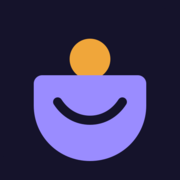
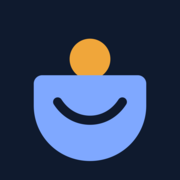
Eigenes Erscheinungsbild geschärft: Blau als Akzentfarbe, neues App-Symbol, Vertragsseite mit eigenem Kopf und Gruppenzeilen

Changed region(s): [[0.1667, 0.4167, 0.8333, 0.9167]]

diff --git a/frontend/src/pages/Vertraege.svelte b/frontend/src/pages/Vertraege.svelte
@@ -166,9 +166,12 @@
 
 {#snippet sektionen(liste: any[], typ: string)}
   {#each liste as s (s.turnus)}
-    <div class="flex items-baseline justify-between px-1 pb-2.5 pt-6">
-      <h2 class="text-[20px] font-bold tracking-tight">{TURNUS[s.turnus]} <span class="font-semibold text-muted">({s.anzahl})</span></h2>
-      <Amount wert={s.summe} farbig={typ === 'einnahme'} klasse="text-[15px] text-muted" />
+    <div class="flex items-center gap-3 px-1 pb-2.5 pt-6">
+      <h2 class="text-[13px] font-bold uppercase tracking-[0.08em] text-accent">{TURNUS[s.turnus]}</h2>
+      <span class="h-px flex-1 bg-line"></span>
+      <span class="text-[13px] text-muted">
+        {s.anzahl} {s.anzahl === 1 ? 'Vertrag' : 'Verträge'} · zusammen <Amount wert={s.summe} farbig={typ === 'einnahme'} />
+      </span>
     </div>
     <div class="karte overflow-hidden">
       {#each sortiert(s.vertraege) as c (c.id)}{@render zeile(c)}{/each}
@@ -187,23 +190,33 @@
   {#if !daten}
     <Laden />
   {:else}
-    <button class="karte block w-full p-5 text-left active:bg-card-hi" onclick={() => (aufteilungOffen = true)} disabled={!aufteilung.length}>
-      <div class="flex items-center justify-between text-[15px] font-semibold text-muted">
-        Verträge und Sparpläne
-        {#if aufteilung.length}<span class="flex items-center gap-0.5 font-medium text-accent">Analyse<ChevronRight size={18} /></span>{/if}
+    {@const fest = Number(daten.ausgaben_monatlich) + Number(daten.sparen_monatlich)}
+    <button class="block w-full text-left" onclick={() => (aufteilungOffen = true)} disabled={!aufteilung.length}>
+      <div class="flex items-center justify-between px-1 pb-2 text-[15px] font-semibold text-muted">
+        Was regelmäßig abgeht
+        {#if aufteilung.length}<span class="flex items-center gap-0.5 font-medium text-accent">Aufteilung<ChevronRight size={18} /></span>{/if}
       </div>
-      <div class="mt-2 flex flex-wrap items-baseline gap-x-2">
-        <span class="text-[30px] font-bold">Ø</span>
-        <Amount wert={Number(daten.ausgaben_monatlich) + Number(daten.sparen_monatlich)} klasse="text-[30px] font-bold tracking-tight" />
-        <span class="text-[17px] text-muted">/ Monat</span>
+      <div class="grid grid-cols-2 gap-2.5">
+        <div class="karte px-4 py-3.5">
+          <div class="text-[13px] text-muted">im Monat</div>
+          <Amount wert={fest} klasse="text-[24px] font-bold tracking-tight" />
+        </div>
+        <div class="karte px-4 py-3.5">
+          <div class="text-[13px] text-muted">im Jahr</div>
+          <Amount wert={fest * 12} klasse="text-[24px] font-bold tracking-tight" />
+        </div>
       </div>
       {#if Number(daten.sparen_monatlich) > 0}
-        <div class="mt-1 text-[14px] text-muted">davon Ø <Amount wert={daten.sparen_monatlich} /> pro Monat in Sparpläne</div>
+        <div class="px-1 pt-2 text-[14px] text-muted">
+          Auf den Monat umgerechnet, auch jährliche Verträge. Darin <Amount wert={daten.sparen_monatlich} /> für Sparpläne.
+        </div>
       {/if}
     </button>
 
     {#if daten.vorschlaege.length}
-      <h2 class="abschnitt !pb-1">Stimmt das? <span class="font-semibold text-muted">({daten.vorschlaege.length})</span></h2>
+      <h2 class="abschnitt flex items-center gap-2.5 !pb-1">Stimmt das?
+        <span class="rounded-full bg-accent-soft px-2.5 py-0.5 text-[13px] font-semibold text-accent">{daten.vorschlaege.length} offen</span>
+      </h2>
       <p class="px-1 pb-3 text-[14px] text-muted">
         BankPocket hat wiederkehrende Zahlungen gefunden. Sie zählen erst mit, wenn du sie als Vertrag bestätigst.
       </p>

diff --git a/frontend/src/app.css b/frontend/src/app.css
@@ -4,7 +4,7 @@
 @theme {
   --font-sans: "Manrope Variable", system-ui, -apple-system, "Segoe UI", Roboto, sans-serif;
 
-  /* Eigenes Erscheinungsbild: Tintenblau statt Schwarz, Violett als Akzent, feine Linien statt flacher Flächen */
+  /* Eigenes Erscheinungsbild: Tintenblau statt Schwarz, klares Blau als Akzent, feine Linien statt flacher Flächen */
   --color-bg: #0e1016;
   --color-card: #171a22;
   --color-card-hi: #222634;
@@ -15,10 +15,10 @@
   --color-sheet: #13161d;
   --color-spur: #333a4c;
 
-  --color-accent: #9a8cff;
-  --color-accent-strong: #8474fb;
-  --color-accent-soft: #24214a;
-  --color-accent-ink: #120f2e;
+  --color-accent: #7fa8ff;
+  --color-accent-strong: #5f8df5;
+  --color-accent-soft: #1a2a4a;
+  --color-accent-ink: #0b1630;
 
   --color-pos: #4fd08c;
   --color-warn: #f0a63a;
@@ -40,9 +40,9 @@
   --color-sheet: #f5f3ee;
   --color-spur: #ddd9cf;
 
-  --color-accent: #5a48e0;
-  --color-accent-strong: #4937c9;
-  --color-accent-soft: #e8e5fb;
+  --color-accent: #1f5fd0;
+  --color-accent-strong: #174fb3;
+  --color-accent-soft: #e2ebfb;
   --color-accent-ink: #ffffff;
 
   --color-pos: #157f3f;

diff --git a/frontend/src/lib/kategorien.ts b/frontend/src/lib/kategorien.ts
@@ -8,7 +8,7 @@ const EMOJI: Record<string, string> = {
   Verkäufe: '🏷',
 };
 
-const FARBEN = ['#9a8cff', '#7c8cff', '#ff8f6b', '#f5c542', '#5ec8ff', '#ff6fae', '#a3e05a', '#c08bff', '#ffb26b', '#4fd1a1'];
+const FARBEN = ['#7fa8ff', '#4fb0c6', '#ff8f6b', '#f5c542', '#5ec8ff', '#ff6fae', '#a3e05a', '#c08bff', '#ffb26b', '#4fd1a1'];
 
 // Emojis eigener Kategorien (und eigene Symbole für eingebaute) – beim Start und nach Änderungen aus
 // /api/kategorien gefüllt
@@ -71,7 +71,7 @@ export function bankKachel(quelle: string, name = '') {
 }
 
 // Farben für Tortendiagramme: nach Rang vergeben, damit sich Nachbarn unterscheiden
-export const TORTENFARBEN = ['#7c6cf5', '#f0a63a', '#2fb8a0', '#e8637a', '#4ea3f2', '#b88cf0', '#8fc93a', '#f28a4e', '#5cc8d8',
+export const TORTENFARBEN = ['#2f6fde', '#f0a63a', '#2fb8a0', '#e8637a', '#8fc7f5', '#b88cf0', '#8fc93a', '#f28a4e', '#5cc8d8',
   '#d870c8', '#c2b04a', '#8a93a8'];
 
 // Logos der Banken: Adresse, deren Seitensymbol der Server einmal holt (siehe bankpocket/logos.py)
